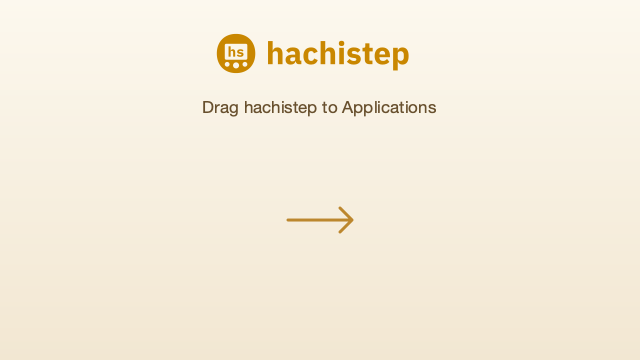
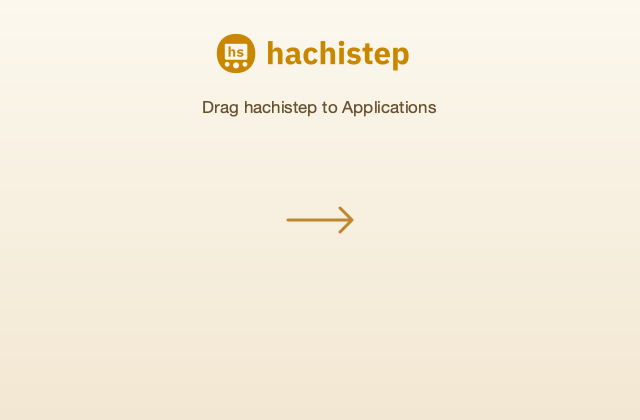
Leave room for Finder bars in the installer layout

diff --git a/desktop/package.py b/desktop/package.py
@@ -66,7 +66,9 @@ def main():
             "symlinks": {"Applications": "/Applications"},
             "icon": str(assets / "macos/icon.icns"),
             "background": str(ROOT.parent / "assets/dmg/background.png"),
-            "window_rect": ((200, 200), (640, 360)),
+            # Finder can keep the user's path and status bars visible.
+            # Leave room below the icon labels.
+            "window_rect": ((200, 200), (640, 420)),
             "icon_locations": {"hachistep.app": (166, 220), "Applications": (474, 220)},
             "icon_size": 112,
             "text_size": 14,
